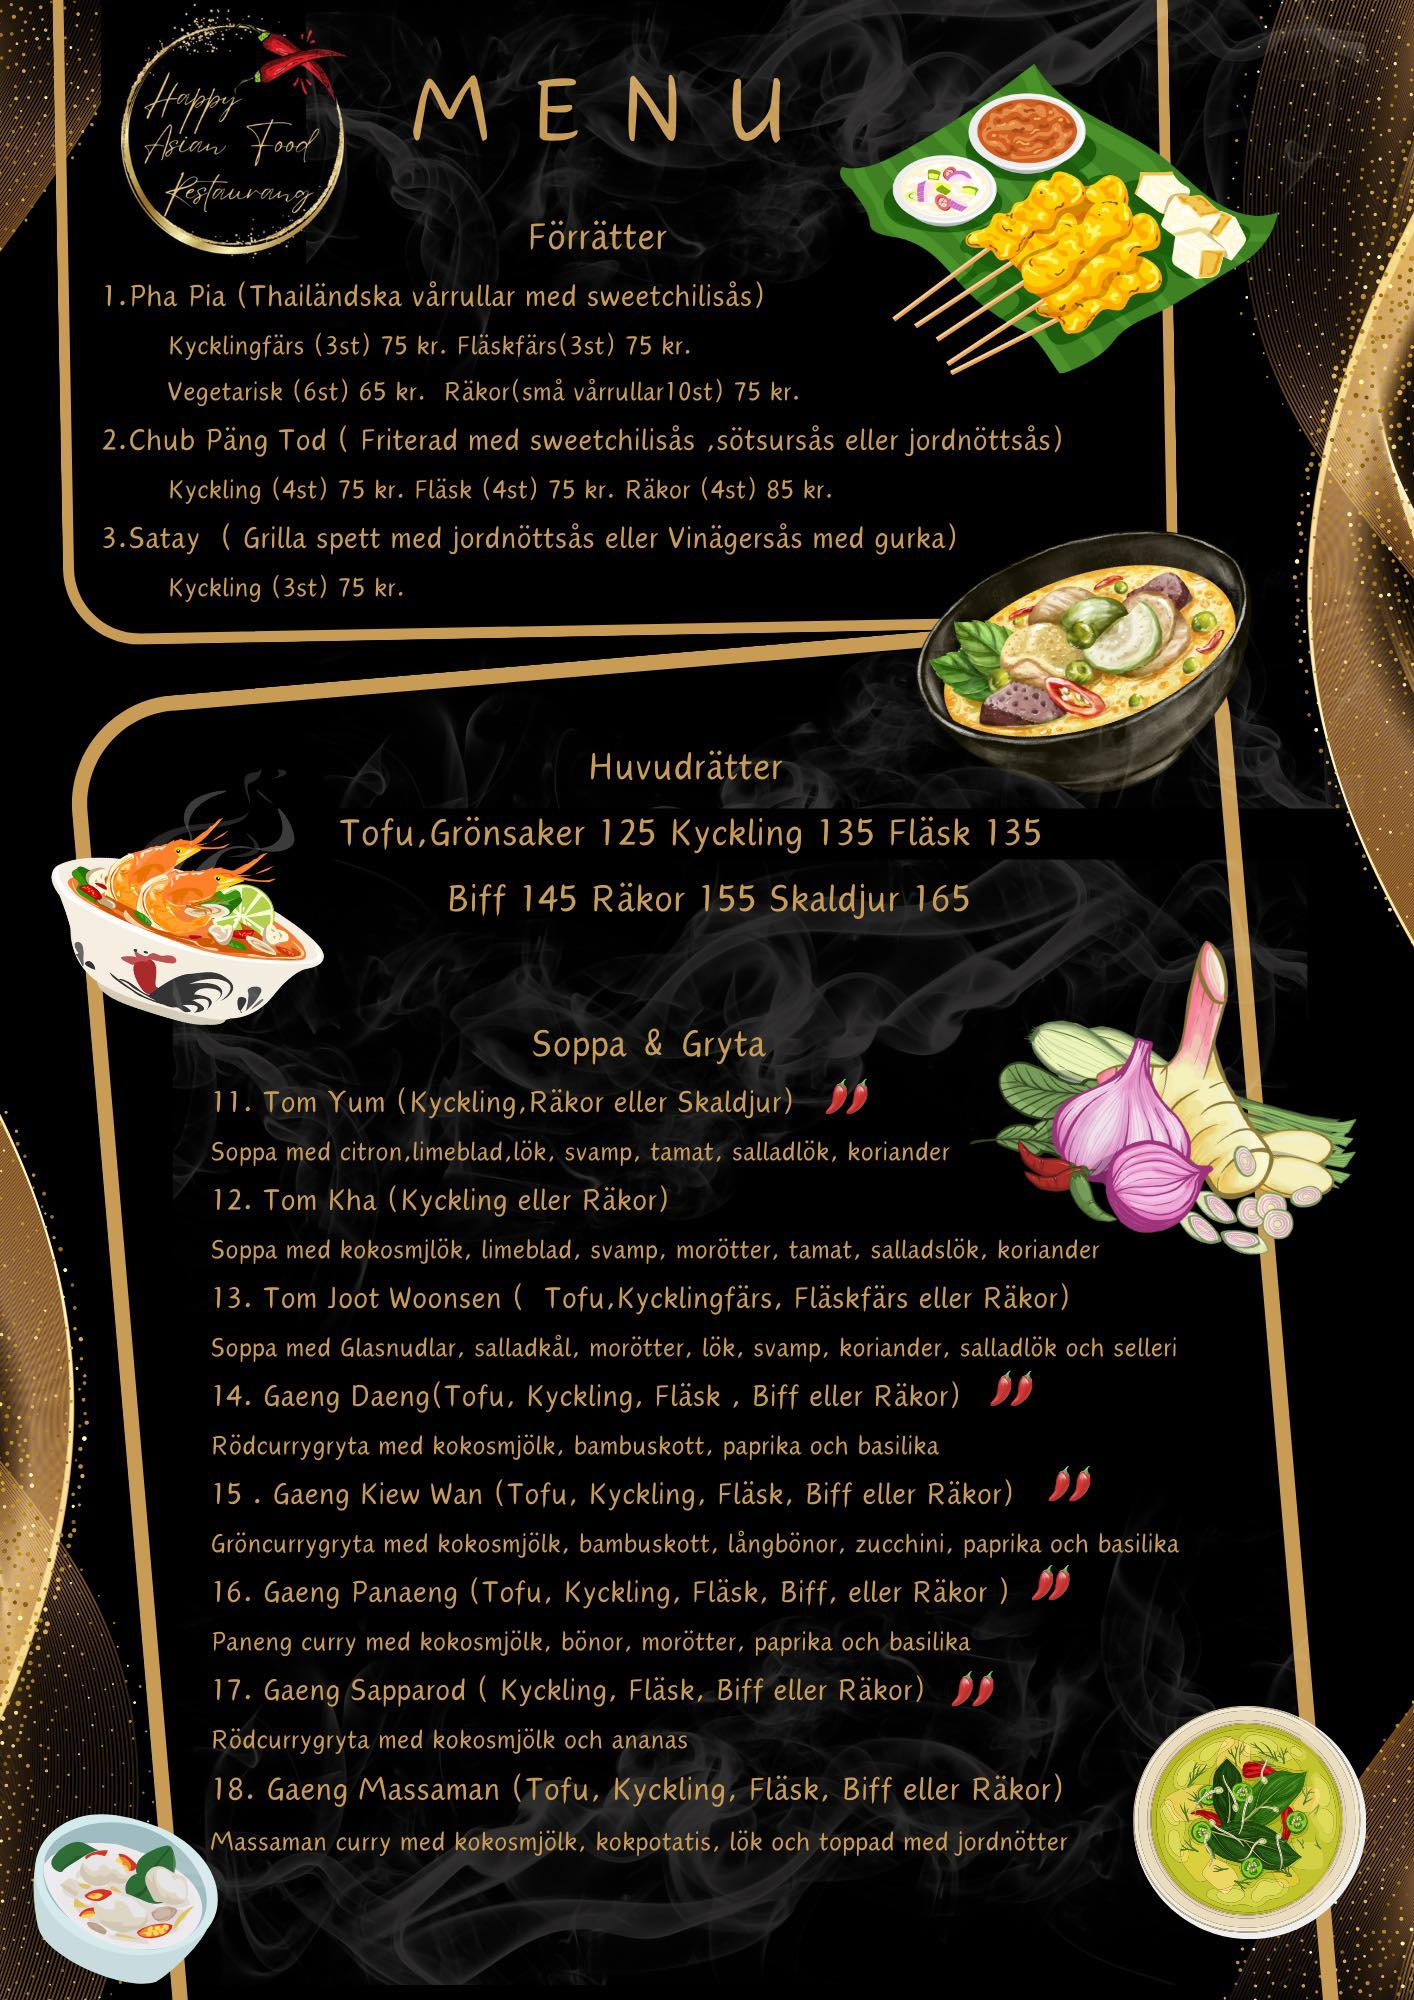
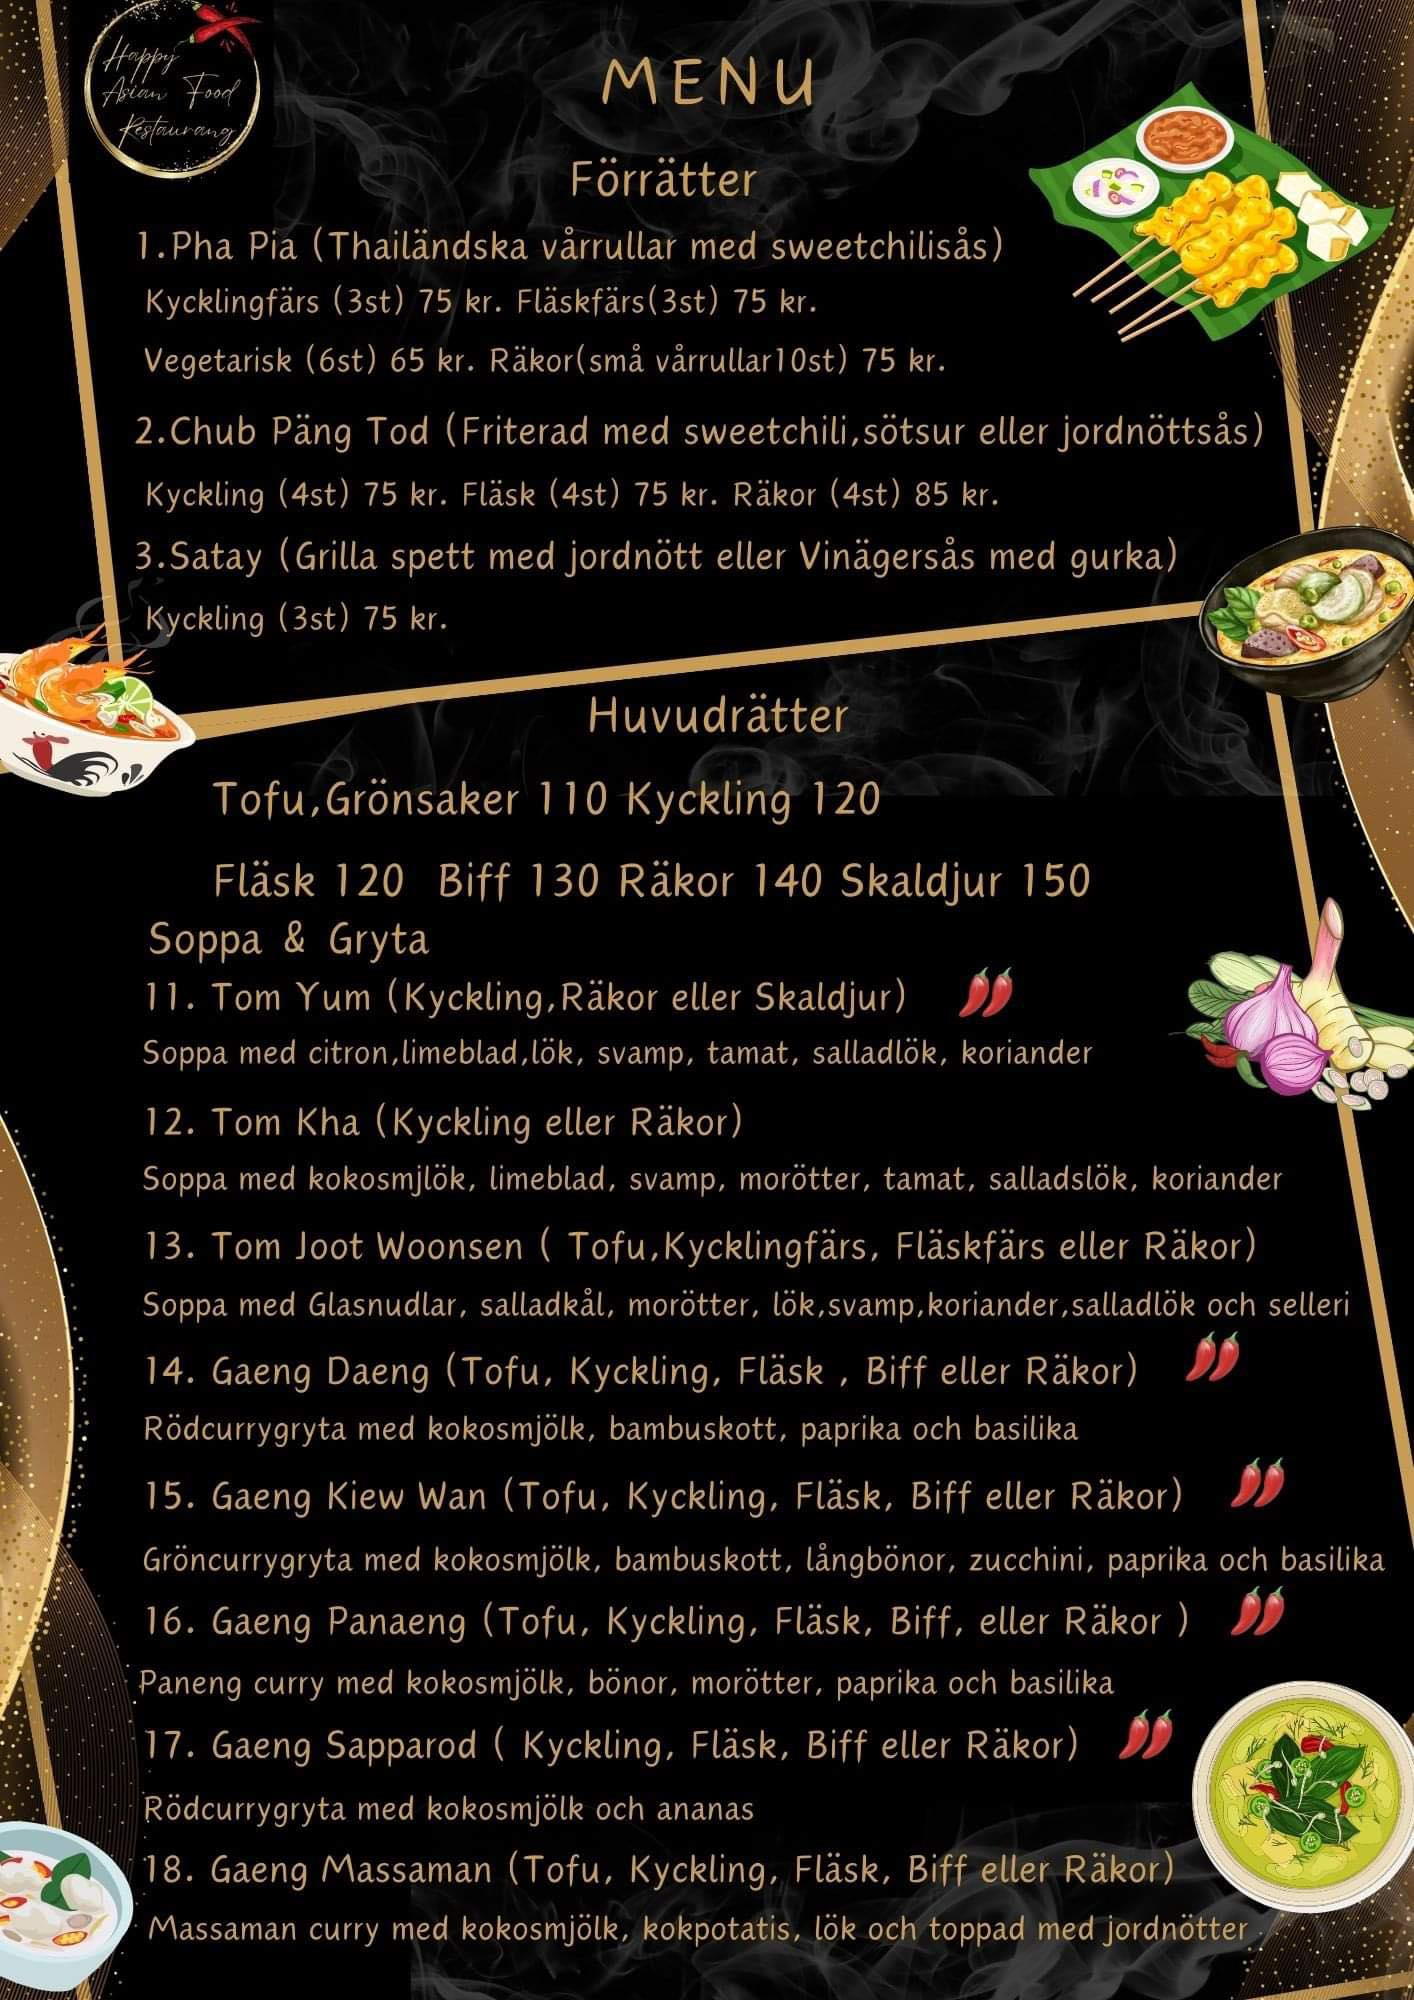
update menu prints

diff --git a/resources/views/pages/public/includes/menu_from_images.blade.php b/resources/views/pages/public/includes/menu_from_images.blade.php
@@ -11,6 +11,9 @@
     <img class="mb-2 border-brand" src="{{ asset('images/menu/haf_menu_1.jpg') }}" alt="menu_1">
     <img class="mb-2 border-brand" src="{{ asset('images/menu/haf_menu_2.jpg') }}" alt="menu_2">
     <img class="mb-2 border-brand" src="{{ asset('images/menu/haf_menu_3.jpg') }}" alt="menu_3">
+    <img class="mb-2 border-brand" src="{{ asset('images/menu/haf_menu_4.jpg') }}" alt="menu_4">
+    <img class="mb-2 border-brand" src="{{ asset('images/menu/haf_menu_5.jpg') }}" alt="menu_5">
+    <img class="mb-2 border-brand" src="{{ asset('images/menu/haf_menu_6.jpg') }}" alt="menu_6">
 </div>
 
 <div id="take-away-menu" class="mb-5 hidden">
@@ -18,6 +21,8 @@
     <img class="mb-2 border-brand" src="{{ asset('images/menu/haf_ta_menu_2.jpg') }}" alt="ta_menu_2">
     <img class="mb-2 border-brand" src="{{ asset('images/menu/haf_ta_menu_3.jpg') }}" alt="ta_menu_3">
     <img class="mb-2 border-brand" src="{{ asset('images/menu/haf_ta_menu_4.jpg') }}" alt="ta_menu_4">
+    <img class="mb-2 border-brand" src="{{ asset('images/menu/haf_ta_menu_5.jpg') }}" alt="ta_menu_5">
+    <img class="mb-2 border-brand" src="{{ asset('images/menu/haf_ta_menu_6.jpg') }}" alt="ta_menu_6">
 </div>
 
 @push('scripts')
